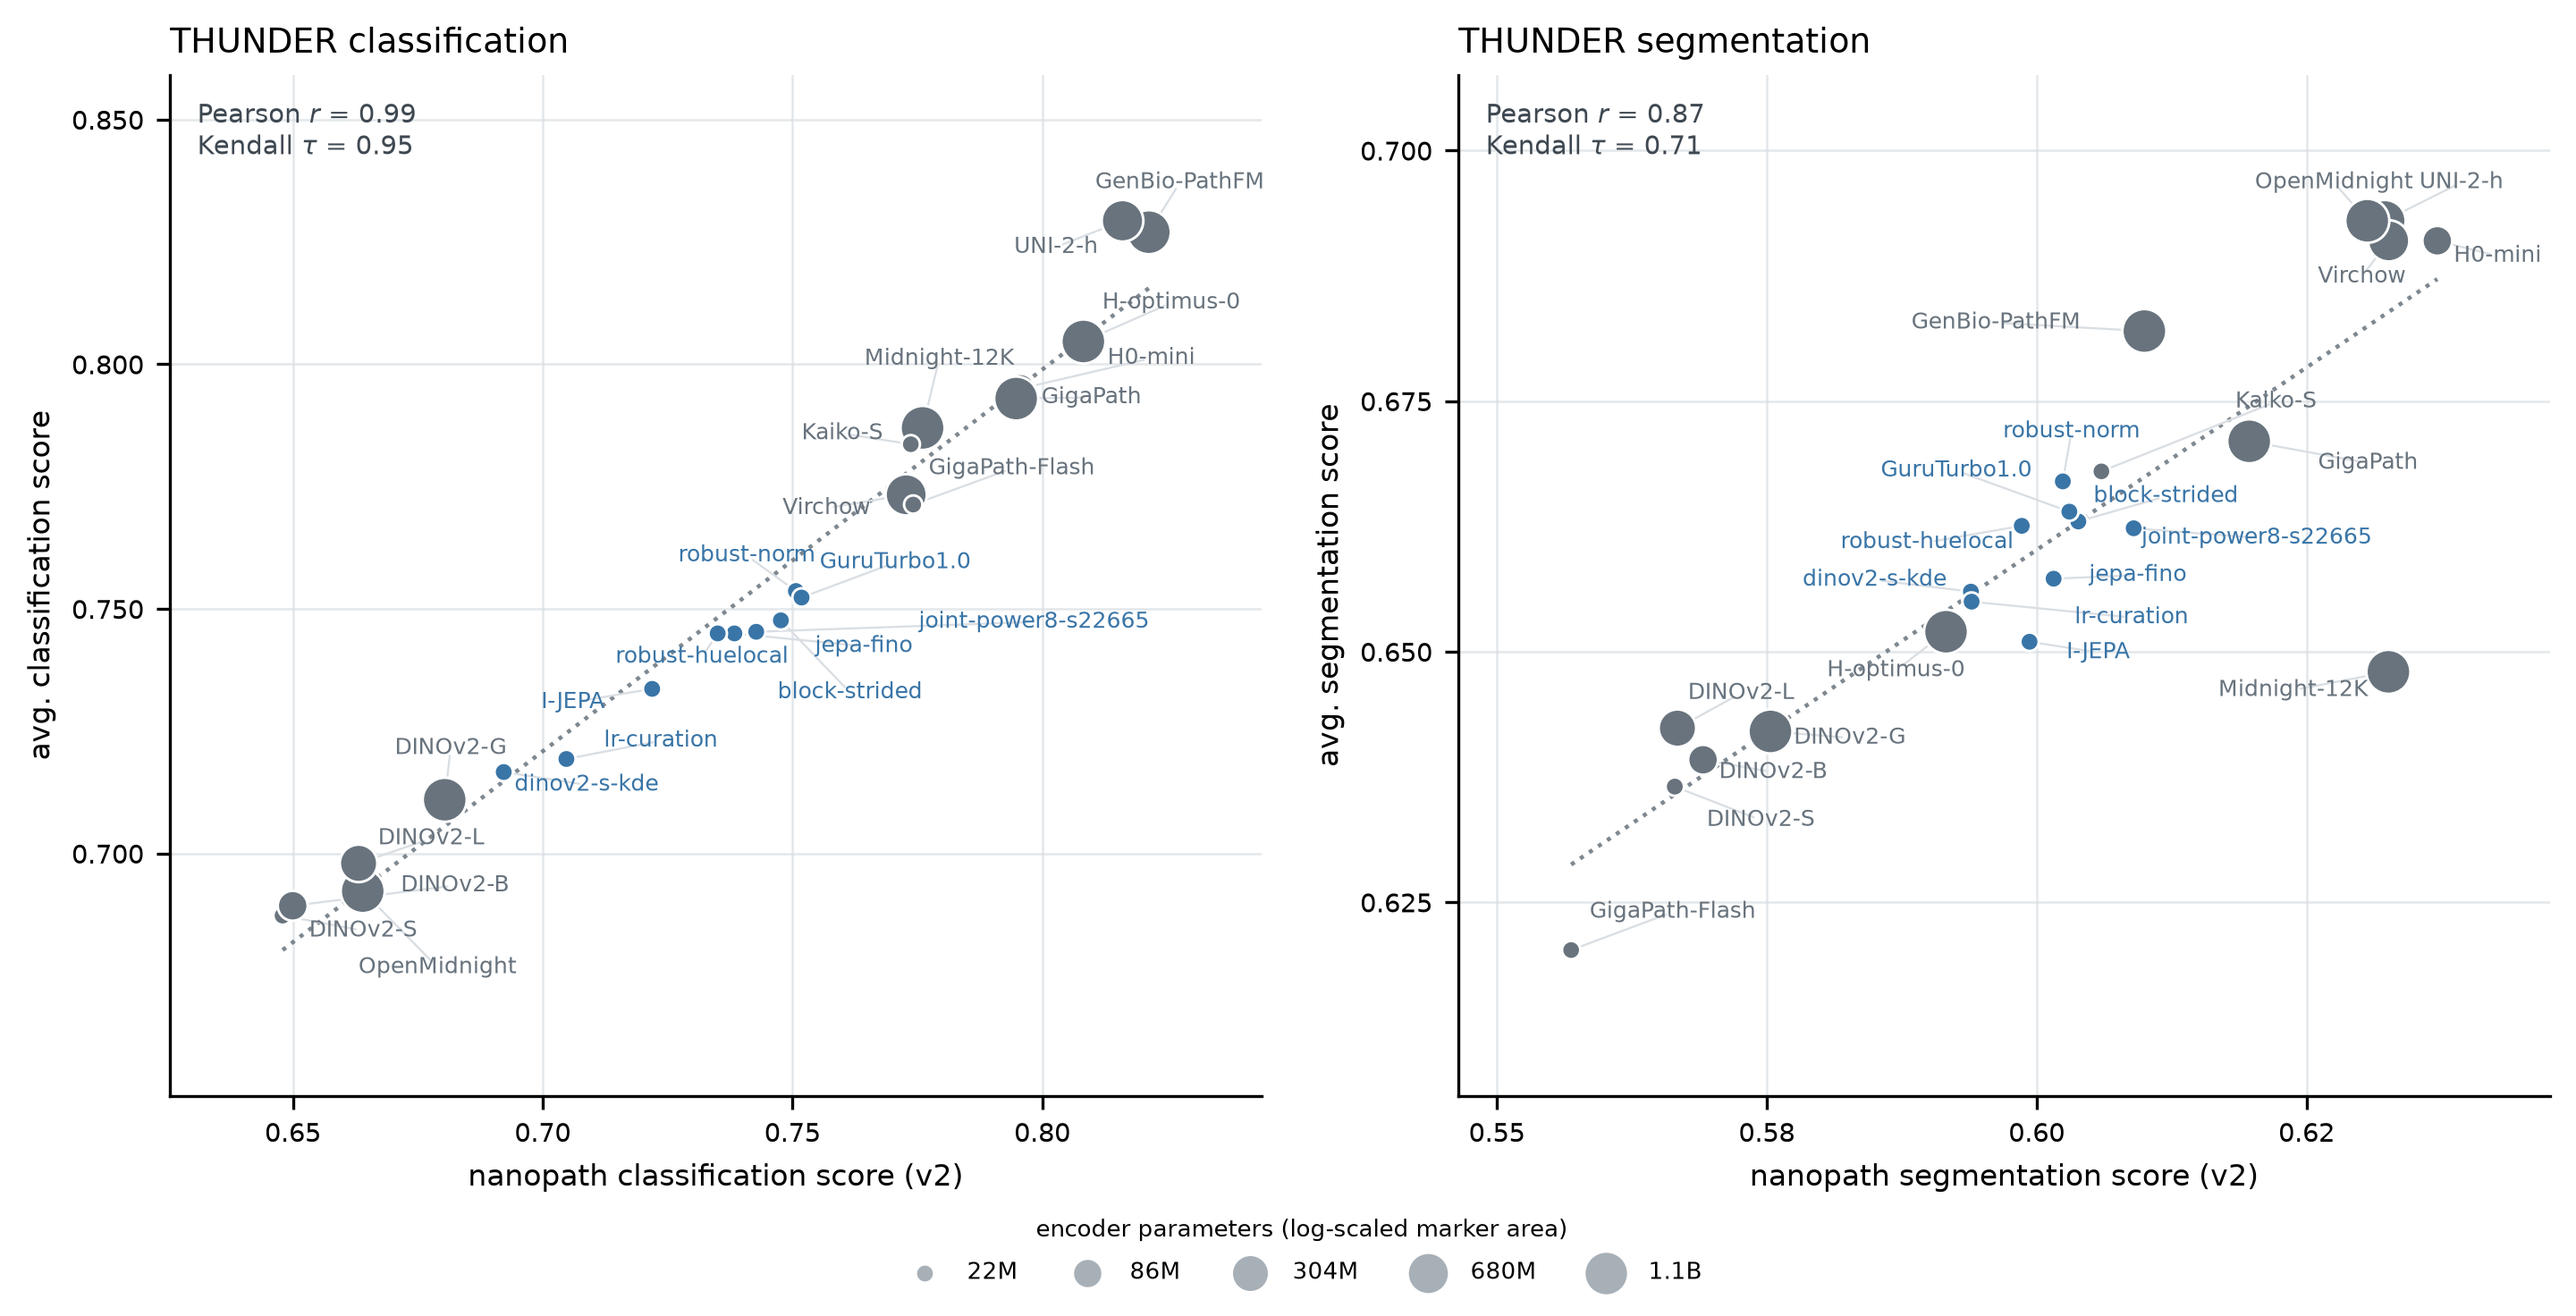
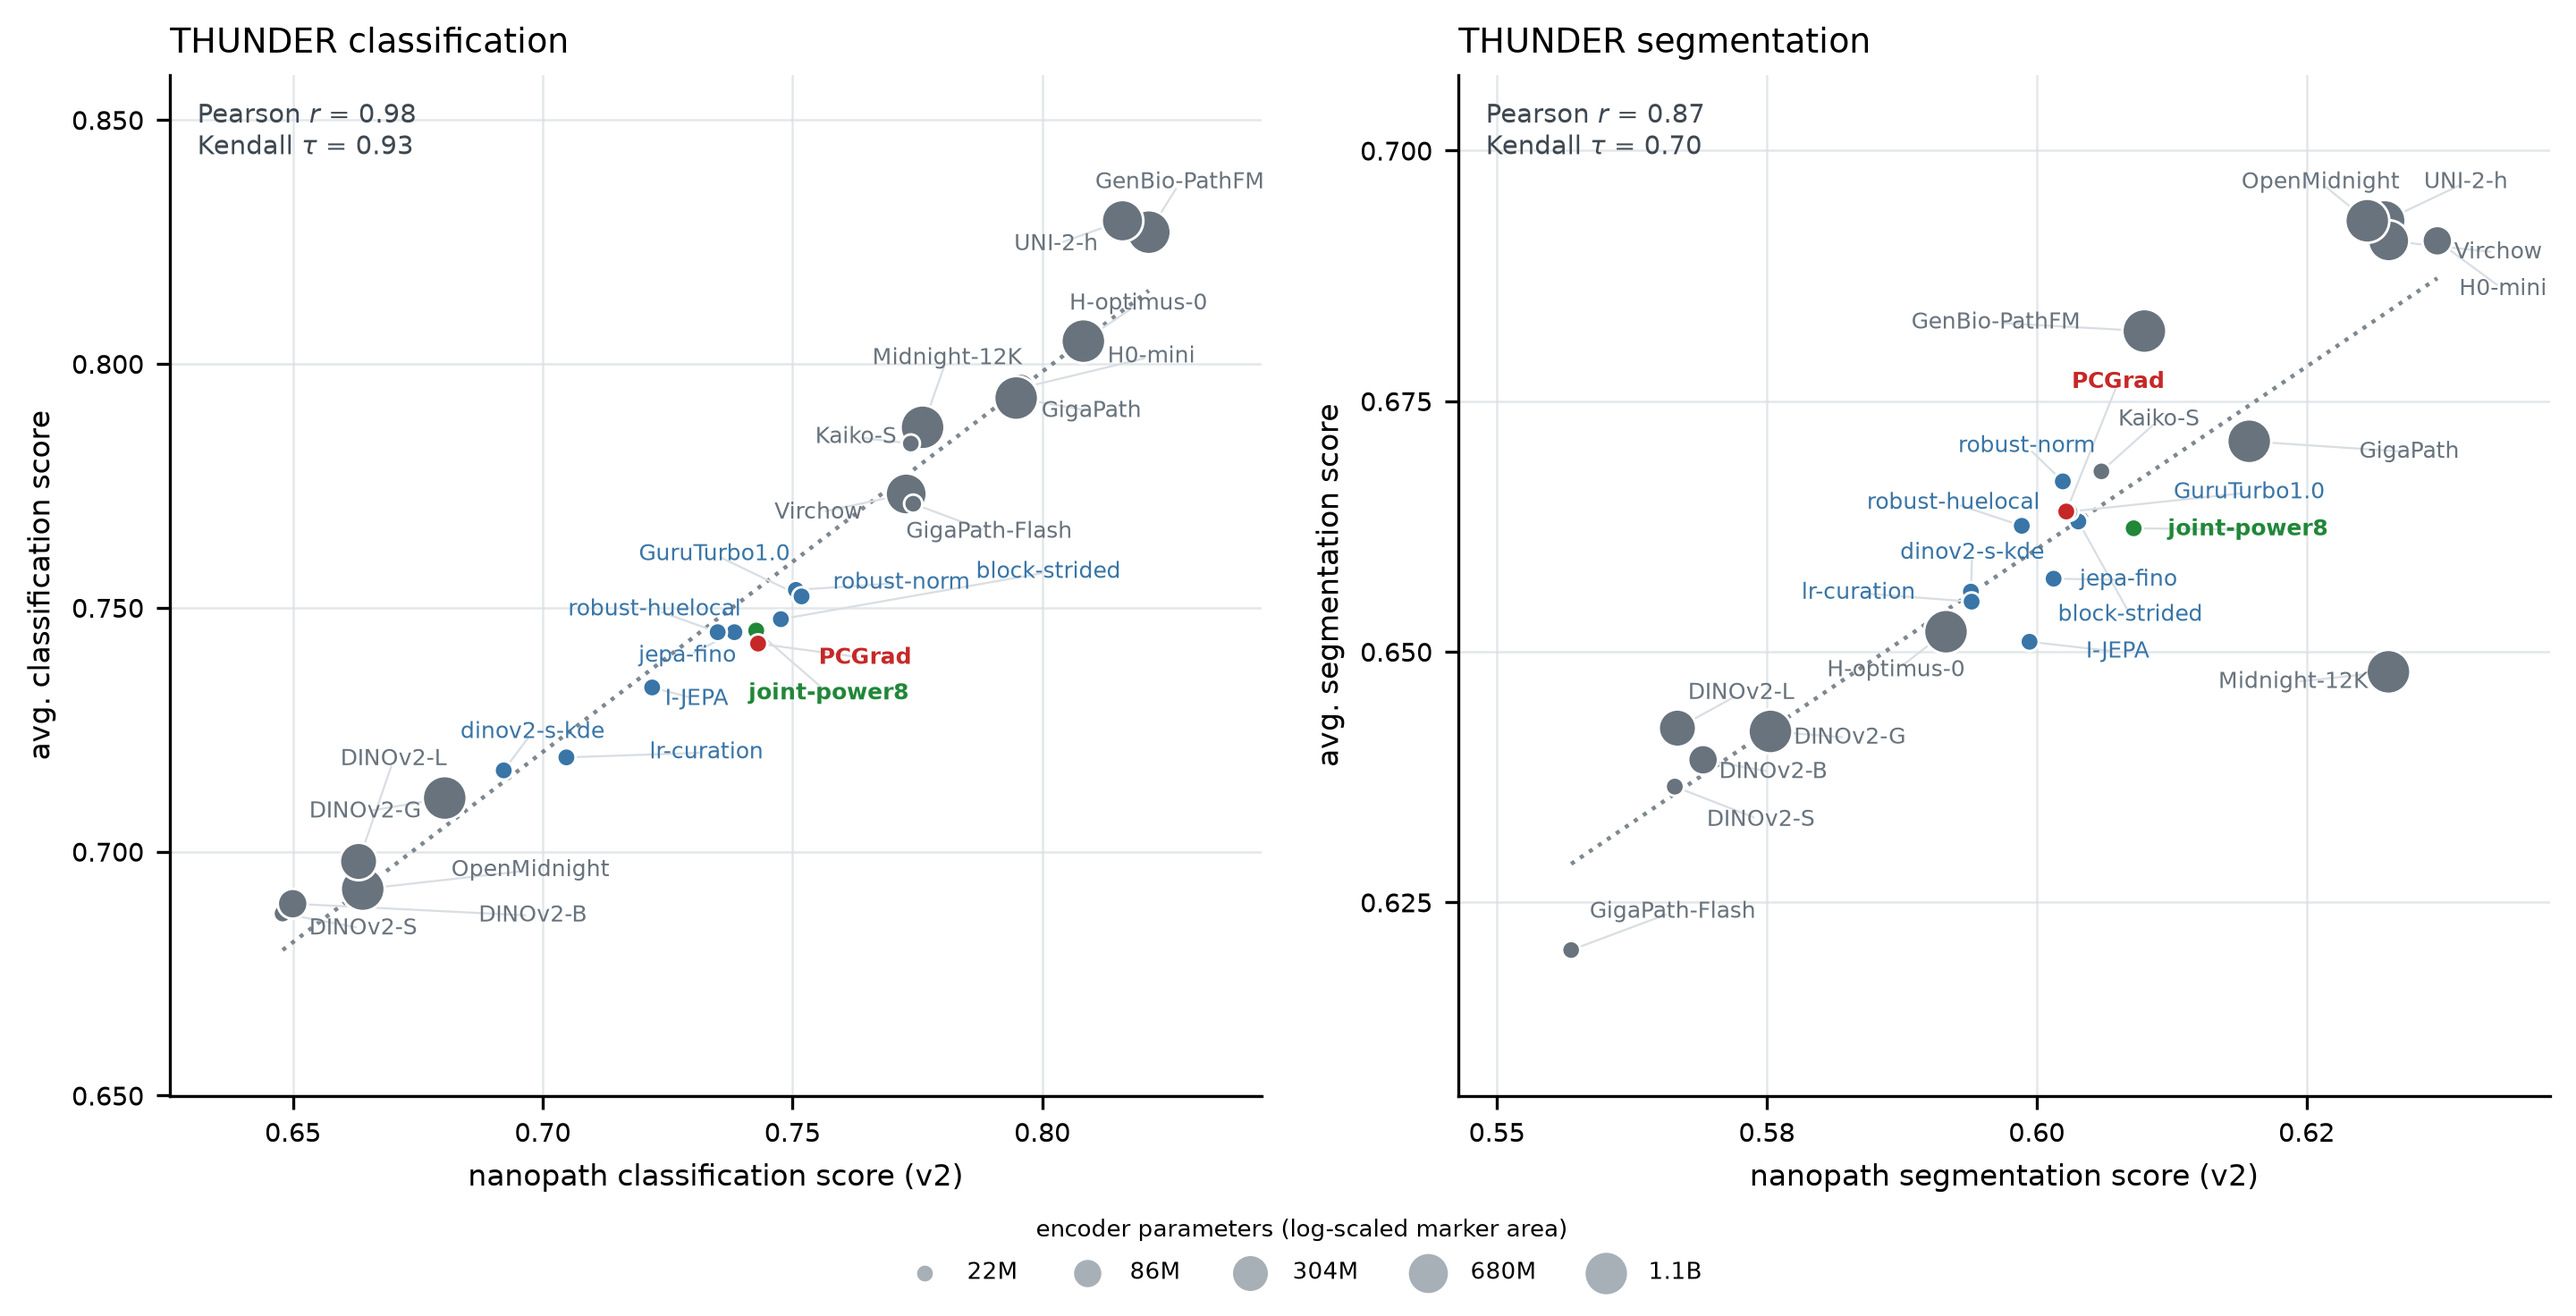
Add PCGrad full evaluations and highlight comparison figures

diff --git a/benchmarking/validation.md b/benchmarking/validation.md
@@ -172,23 +172,25 @@ Across those 12 pre-existing composite rows, the final score never places a
 studied nanopath checkpoint above GigaPath or H-Optimus-0 when the composite
 places it below that baseline.
 
-An expanded 23-model table adds H0-mini, DINOv2-S/B/L/G, Kaiko-S/16, and
+An expanded 24-model table adds H0-mini, DINOv2-S/B/L/G, Kaiko-S/16, and
 GigaPath-Flash, plus the validated GuruTurbo1.0 (seed 3539) and robust-huelocal
 (seed 7974) medians, and the unvalidated
-[joint-power8-s22665](https://labless.dev/runs/run_sub_8ffed95604) discovery checkpoint:
+[joint-power8-s22665](https://labless.dev/runs/run_sub_8ffed95604) and
+[PCGrad (seed 20344)](https://labless.dev/runs/run_sub_f2d430a19a) discovery checkpoints:
 
-| Comparison, 23 models | Pearson | Kendall |
+| Comparison, 24 models | Pearson | Kendall |
 |---|---:|---:|
-| Classification / THUNDER | 0.985 | 0.953 |
-| Segmentation / THUNDER | 0.868 | 0.710 |
-| Final score / THUNDER classification + segmentation | 0.848 | 0.676 |
-| Final score / HEST | 0.670 | 0.526 |
-| Final score / CPTAC classification | 0.802 | 0.684 |
+| Classification / THUNDER | 0.983 | 0.935 |
+| Segmentation / THUNDER | 0.868 | 0.698 |
+| Final score / THUNDER classification + segmentation | 0.827 | 0.638 |
+| Final score / HEST | 0.623 | 0.464 |
+| Final score / CPTAC classification | 0.807 | 0.688 |
 
 The exact comparison input is
 [proxy-fidelity data](proxy_fidelity_v2.csv). Final scores use the assembled
 fixed result, including PanNuke and both SegPath tasks. THUNDER segmentation
-uses complete same-checkpoint results for all 23 models.
+uses complete same-checkpoint results for all 24 models. The README figures
+highlight PCGrad in red and joint-power8 in green.
 
 ## Random-feature null audit
 

diff --git a/benchmarking/README.md b/benchmarking/README.md
@@ -69,7 +69,7 @@ Encoder inference uses fp16 autocast and caches classification/slide embeddings 
 | [`surgen.json`](surgen.json) | SurGen fold-0 development-pool slide labels |
 | [`leopard_bcr.json`](leopard_bcr.json) | LEOPARD public-training cohort and fixed folds |
 | [`cptac_pda_os.json`](cptac_pda_os.json) | CPTAC-PDA fold-0 development-pool survival labels and fixed folds |
-| [Proxy-fidelity data](proxy_fidelity_v2.csv) | Frozen proxy/official comparison values for 23 models |
+| [Proxy-fidelity data](proxy_fidelity_v2.csv) | Frozen proxy/official comparison values for 24 models |
 | [Random-feature audit](random_dinov2_s_v2.csv) | Ten-seed predictive and CRoMa audit |
 | [classification.md](classification.md) | Dataset provenance, sampling, head math, and THUNDER deviations |
 | [segmentation.md](segmentation.md) | Source boundary, decoder, loss, metric, and PanNuke caveat |
